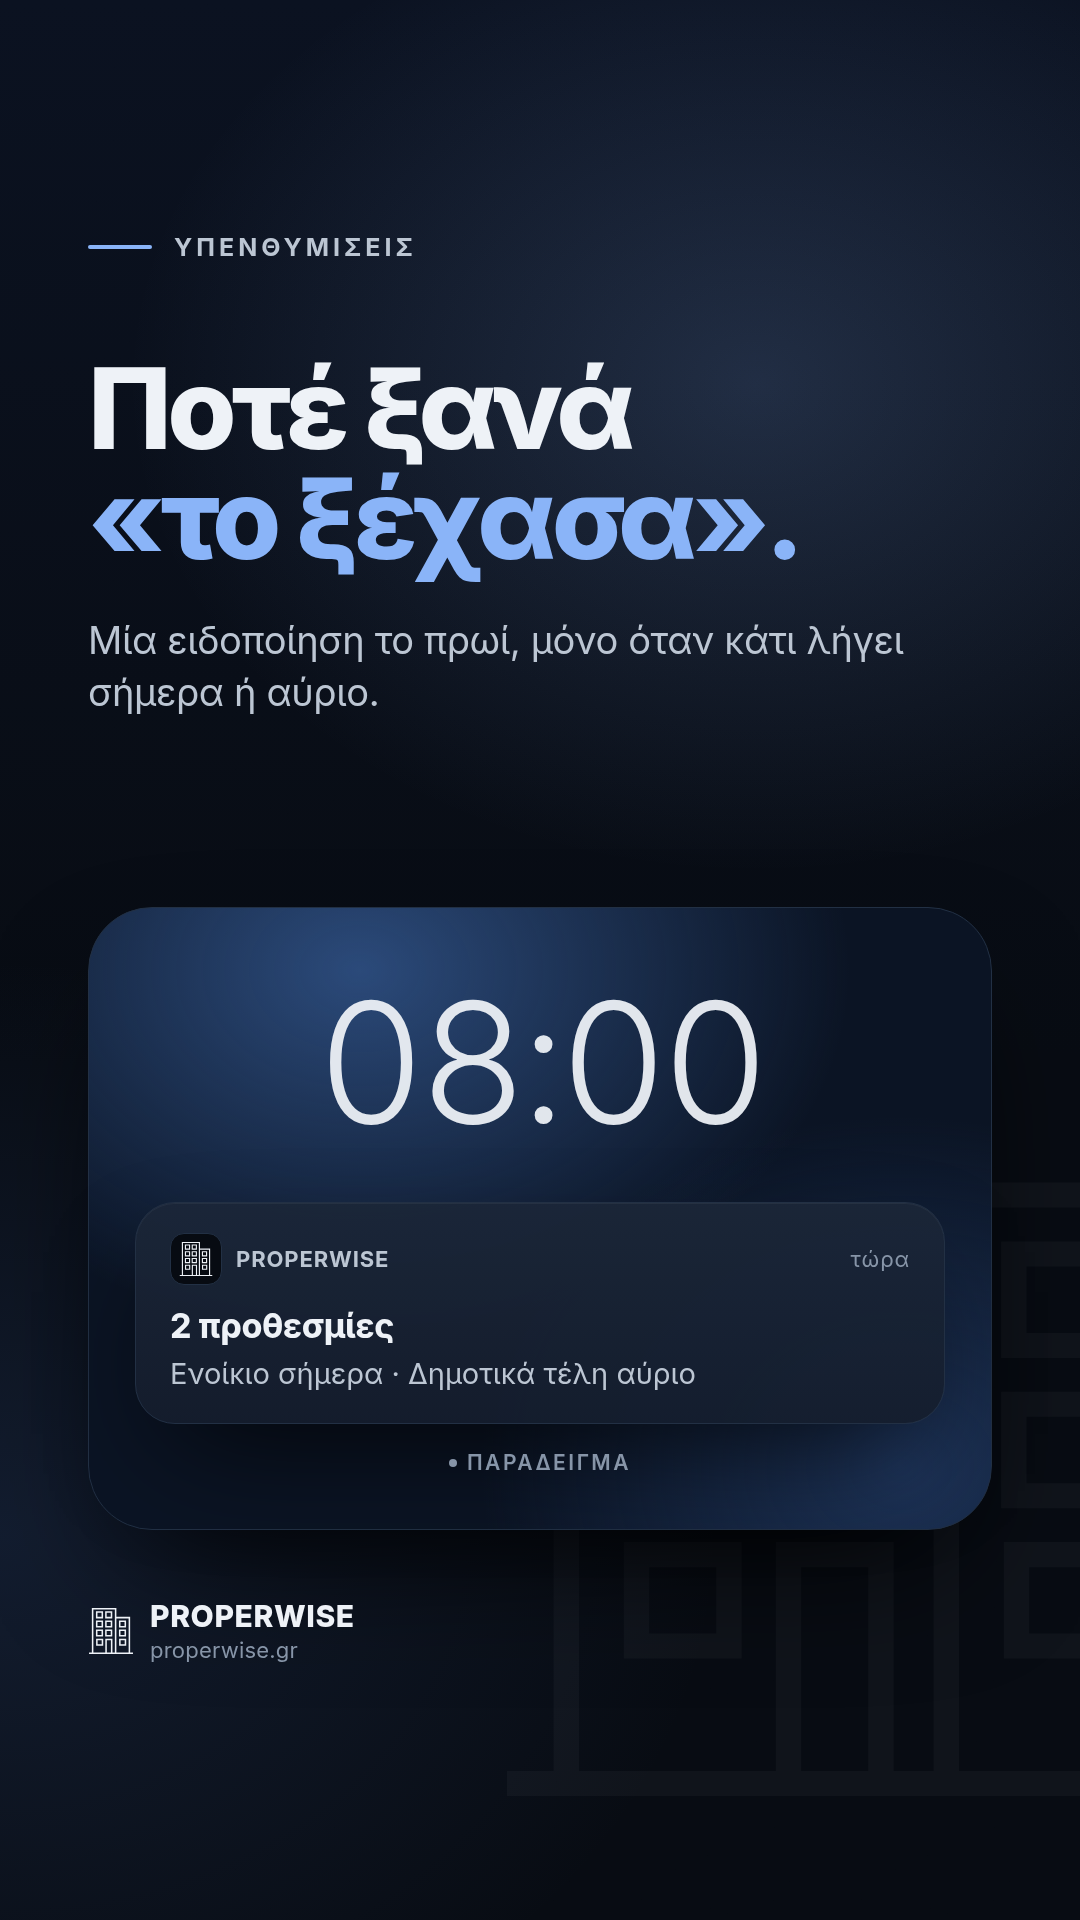
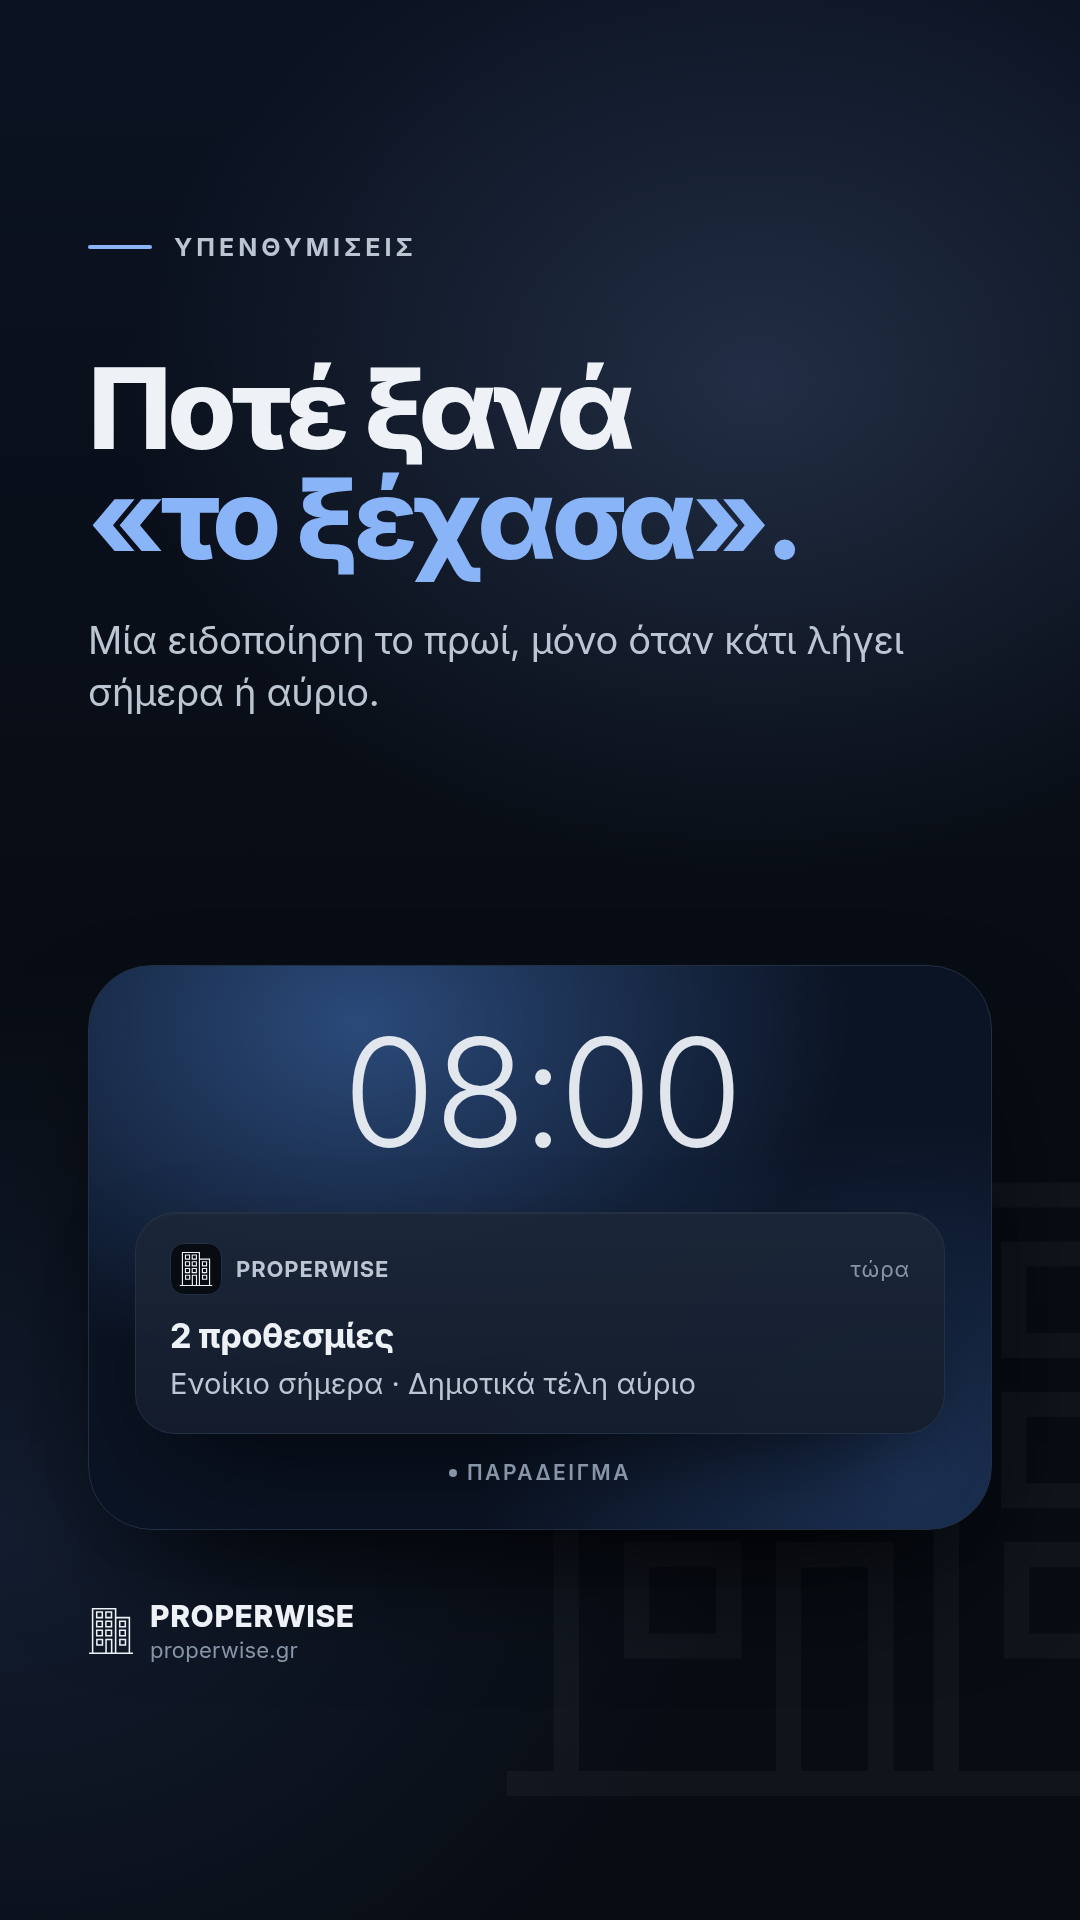
Stories δεύτερης μέρας: χώρος για τη δημοσκόπηση, τίτλος φακέλου που λέει το όφελος (#371)
Στις υπενθυμίσεις το αυτοκόλλητο της δημοσκόπησης δεν είχε θέση και θα έπεφτε
πάνω στο ρολόι ή στην ειδοποίηση· τώρα έχει δική του λωρίδα. Στον φάκελο ο
τίτλος «Ο φάκελος του λογιστή» επαναλάμβανε την ετικέτα από πάνω του· τώρα
λέει τι παίρνεις: «Ένα αρχείο. Όλη η χρονιά.». Το README γράφει πού μπαίνουν
τα δύο αυτοκόλλητα και ότι η ώρα της ειδοποίησης γίνεται 07:00 μετά τις 25
Οκτωβρίου.

Claude-Session: https://claude.ai/code/session_01FciDzM5oCHC6crgCfFdPE1

diff --git a/scripts/marketing/stories.ts b/scripts/marketing/stories.ts
@@ -275,6 +275,7 @@ function ypenthymisi(): string {
   return frame('ΥΠΕΝΘΥΜΙΣΕΙΣ', `
     <h1 style="font-size:112px;margin-top:92px">Ποτέ ξανά<br><span style="color:${C.accent}">«το ξέχασα».</span></h1>
     <p class="sub" style="margin-top:40px;max-width:880px">Μία ειδοποίηση το πρωί, μόνο όταν κάτι λήγει σήμερα ή αύριο.</p>
+    <div class="poll" aria-hidden="true"></div>
     <div class="lock">
       <div class="clock num">${esc(time)}</div>
       <div class="note glass">
@@ -284,11 +285,14 @@ function ypenthymisi(): string {
       </div>
       <div class="tag" style="margin-top:26px">ΠΑΡΑΔΕΙΓΜΑ</div>
     </div>`, `
-    .lock{margin-top:auto;margin-bottom:390px;border-radius:64px;padding:70px 46px 54px;display:flex;flex-direction:column;align-items:center;
+    /* ΛΩΡΙΔΑ ΓΙΑ ΤΗ ΔΗΜΟΣΚΟΠΗΣΗ. Το αυτοκόλλητο μπαίνει από την εφαρμογή του
+       Instagram· χωρίς δικό του χώρο έπεφτε πάνω στο ρολόι ή στην ειδοποίηση. */
+    .poll{flex:none;height:200px;margin-top:24px}
+    .lock{margin-top:auto;margin-bottom:390px;border-radius:64px;padding:52px 46px 44px;display:flex;flex-direction:column;align-items:center;
       background:radial-gradient(700px 520px at 30% 10%, #2b4a7a, transparent 70%), radial-gradient(600px 500px at 90% 90%, #1d3358, transparent 70%), #0b1424;
       border:1.5px solid ${C.rule};box-shadow:0 60px 140px -50px #000}
-    .clock{font-size:168px;font-weight:300;letter-spacing:-.04em;line-height:1;color:${C.ink};opacity:.94}
-    .note{margin-top:56px;width:100%;border-radius:40px;padding:30px 34px;background:linear-gradient(180deg,#1b2638ee,#141d2dee)}
+    .clock{font-size:150px;font-weight:300;letter-spacing:-.04em;line-height:1;color:${C.ink};opacity:.94}
+    .note{margin-top:44px;width:100%;border-radius:40px;padding:30px 34px;background:linear-gradient(180deg,#1b2638ee,#141d2dee)}
     .n-head{display:flex;align-items:center;gap:14px;font-size:22px;color:${C.faint};letter-spacing:.04em}
     .n-ic{width:52px;height:52px;border-radius:14px;background:${C.ground};border:1.5px solid ${C.rule};display:flex;align-items:center;justify-content:center}
     .n-head b{font-weight:700;color:${C.muted}}
@@ -310,8 +314,8 @@ function fakelos(): string {
     return `<div class="xr${strong ? ' strong' : ''}${l.kind === 'result' ? ' result' : ''}"><span>${esc(l.label)}</span><b class="num">${esc(v)}</b></div>`;
   }).join('');
   return frame('ΦΑΚΕΛΟΣ ΓΙΑ ΤΟΝ ΛΟΓΙΣΤΗ', `
-    <h1 style="font-size:112px;margin-top:92px">Ο φάκελος<br><span style="color:${C.accent}">του λογιστή.</span></h1>
-    <p class="sub" style="margin-top:40px;max-width:880px">Όλη η χρονιά σε ένα Excel. Ό,τι λείπει, γραμμένο σε δικό του φύλλο.</p>
+    <h1 style="font-size:112px;margin-top:92px">Ένα αρχείο.<br><span style="color:${C.accent}">Όλη η χρονιά.</span></h1>
+    <p class="sub" style="margin-top:40px;max-width:880px">Το Excel που παίρνει ο λογιστής. Ό,τι λείπει, γραμμένο σε δικό του φύλλο.</p>
     <div class="xl glass">
       <div class="x-bar"><i></i><i></i><i></i><span>Φάκελος ${esc(String(S.year))} · ${esc(PROP)}.xlsx</span></div>
       <div class="x-title"><b>Κατάσταση αποτελεσμάτων</b><span class="tag">ΠΑΡΑΔΕΙΓΜΑ</span></div>
@@ -439,9 +443,17 @@ async function main() {
     '',
     ...STORIES.filter(st => dayOf(st) === 2).map(st => `- \`${st.key}.png\`: ${st.what}`),
     '',
+    'Στο `4-ypenthymisi.png`, αυτοκόλλητο δημοσκόπησης (Poll) στην άδεια λωρίδα',
+    'ανάμεσα στον υπότιτλο και στην οθόνη κλειδώματος: «Σου έχει ξεφύγει ποτέ',
+    'προθεσμία;», με απαντήσεις «Ναι» και «Όχι ακόμα».',
+    '',
     'Στο `6-ypologistes.png`, το αυτοκόλλητο συνδέσμου προς `https://properwise.gr`',
     'μπαίνει στην άδεια λωρίδα κάτω από το «Υπολόγισε τώρα». Κείμενο αυτοκόλλητου:',
     '«Υπολόγισε δωρεάν».',
+    '',
+    'Η ώρα της ειδοποίησης βγαίνει από το χρονοδιάγραμμα (05:00 UTC) σε ώρα Ελλάδας:',
+    '08:00 ώς τις 25 Οκτωβρίου, 07:00 μετά την αλλαγή της ώρας. Ξαναπαράγεται',
+    'την ημέρα της δημοσίευσης.',
     '',
     '## Εναλλακτικό κείμενο',
     '',

diff --git a/docs/marketing/instagram/README.md b/docs/marketing/instagram/README.md
@@ -25,9 +25,17 @@
 - `5-fakelos.png`: Ο φάκελος για τον λογιστή
 - `6-ypologistes.png`: Δωρεάν υπολογιστές χωρίς εγγραφή
 
+Στο `4-ypenthymisi.png`, αυτοκόλλητο δημοσκόπησης (Poll) στην άδεια λωρίδα
+ανάμεσα στον υπότιτλο και στην οθόνη κλειδώματος: «Σου έχει ξεφύγει ποτέ
+προθεσμία;», με απαντήσεις «Ναι» και «Όχι ακόμα».
+
 Στο `6-ypologistes.png`, το αυτοκόλλητο συνδέσμου προς `https://properwise.gr`
 μπαίνει στην άδεια λωρίδα κάτω από το «Υπολόγισε τώρα». Κείμενο αυτοκόλλητου:
 «Υπολόγισε δωρεάν».
+
+Η ώρα της ειδοποίησης βγαίνει από το χρονοδιάγραμμα (05:00 UTC) σε ώρα Ελλάδας:
+08:00 ώς τις 25 Οκτωβρίου, 07:00 μετά την αλλαγή της ώρας. Ξαναπαράγεται
+την ημέρα της δημοσίευσης.
 
 ## Εναλλακτικό κείμενο
 
